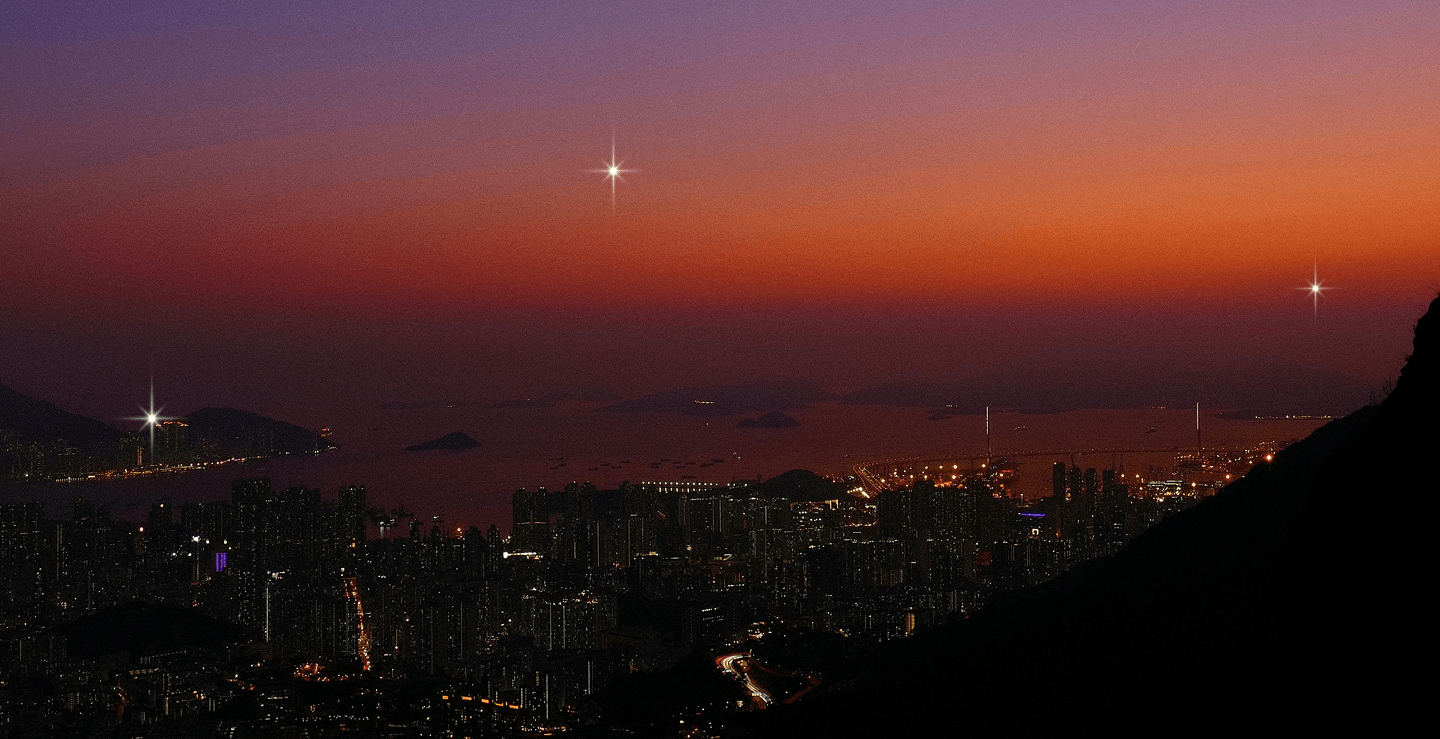
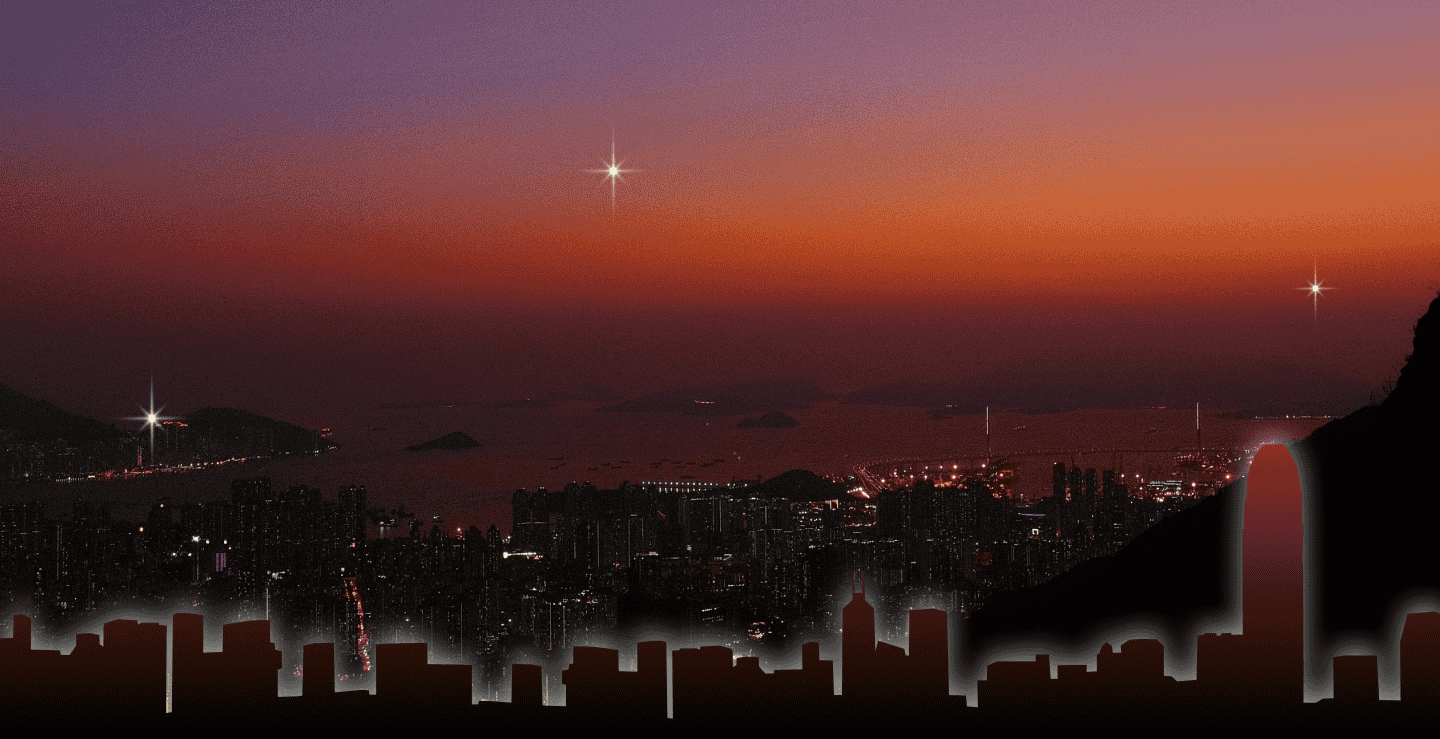
GH-1298: use correct bg, modify shadow

diff --git a/ui/src/components/shine/HeroSection.js b/ui/src/components/shine/HeroSection.js
@@ -56,7 +56,7 @@ const HeroSection = () => {
         width="100%"
         height="100%"
         zIndex="1"
-        background="linear-gradient(to top, rgb(246,250,255, 1) 10%, rgba(246,250,255,0) 25%)"
+        background="linear-gradient(to top, rgb(246,250,255, 1) 10%, rgba(21,11,6,0) 15%)"
         position="absolute"
         top="0"
         left="0"
